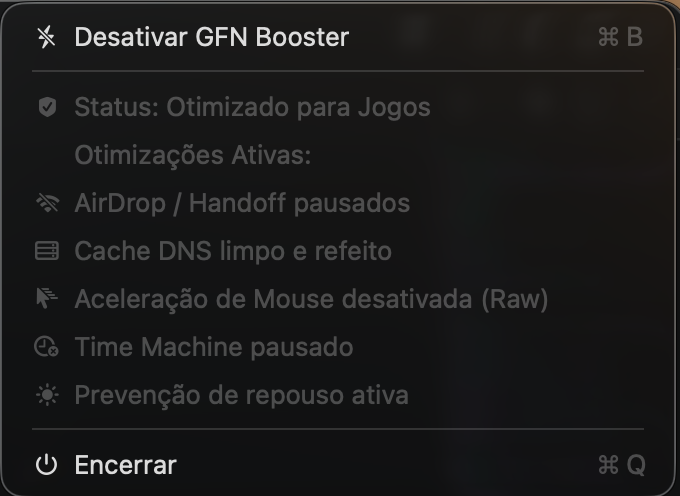
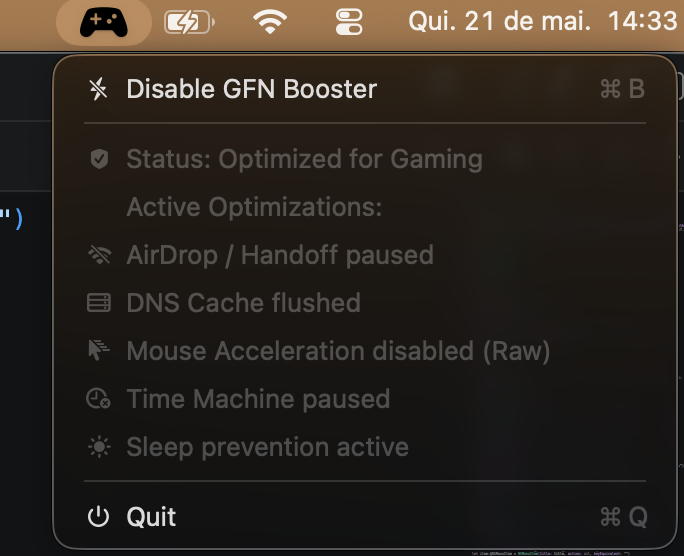
Refactor: Update UI to English and update preview screenshot

diff --git a/Sources/GFNOptimizer/App.swift b/Sources/GFNOptimizer/App.swift
@@ -4,25 +4,25 @@ import AppKit
 class AppDelegate: NSObject, NSApplicationDelegate {
     var statusItem: NSStatusItem!
     
-    // Ícones da barra de menus usando SF Symbols
+    // Menu bar icons using SF Symbols
     let config = NSImage.SymbolConfiguration(scale: .large)
     lazy var offImage = NSImage(systemSymbolName: "gamecontroller", accessibilityDescription: nil)?.withSymbolConfiguration(config)
     lazy var onImage = NSImage(systemSymbolName: "gamecontroller.fill", accessibilityDescription: nil)?.withSymbolConfiguration(config)
     
-    // Elementos dinâmicos do menu
+    // Dynamic menu elements
     var mainActionItem: NSMenuItem!
     var statusTextItem: NSMenuItem!
     
-    // Itens informativos das otimizações
+    // Informational items for optimizations
     var optimTitle: NSMenuItem!
     var awdlItem: NSMenuItem!
     var dnsItem: NSMenuItem!
     var mouseItem: NSMenuItem!
     var tmItem: NSMenuItem!
-    var sleepItem: NSMenuItem! // Nova otimização visual
+    var sleepItem: NSMenuItem!
     
     var isBoosterActive = false
-    var caffeinateProcess: Process? // Monitora o processo anti-sono do Mac
+    var caffeinateProcess: Process?
 
     static func main() {
         let app = NSApplication.shared
@@ -43,42 +43,42 @@ class AppDelegate: NSObject, NSApplicationDelegate {
     func setupMenu() {
         let menu = NSMenu()
         
-        // 1. Botão Principal
-        mainActionItem = NSMenuItem(title: "Ativar GFN Booster", action: #selector(toggleBooster), keyEquivalent: "b")
+        // 1. Main Button
+        mainActionItem = NSMenuItem(title: "Enable GFN Booster", action: #selector(toggleBooster), keyEquivalent: "b")
         mainActionItem.target = self
         menu.addItem(mainActionItem)
         
         menu.addItem(NSMenuItem.separator())
         
-        // 2. Status Geral
-        statusTextItem = NSMenuItem(title: "Status: Padrão", action: nil, keyEquivalent: "")
+        // 2. General Status
+        statusTextItem = NSMenuItem(title: "Status: Default", action: nil, keyEquivalent: "")
         statusTextItem.isEnabled = false
         menu.addItem(statusTextItem)
         
-        // 3. Área de Informações Expandida (Oculta por padrão)
-        optimTitle = NSMenuItem(title: "Otimizações Ativas:", action: nil, keyEquivalent: "")
+        // 3. Expanded Info Area (Hidden by default)
+        optimTitle = NSMenuItem(title: "Active Optimizations:", action: nil, keyEquivalent: "")
         optimTitle.isEnabled = false
         menu.addItem(optimTitle)
         
-        awdlItem = createFeatureItem(title: "AirDrop / Handoff pausados", icon: "wifi.slash")
+        awdlItem = createFeatureItem(title: "AirDrop / Handoff paused", icon: "wifi.slash")
         menu.addItem(awdlItem)
         
-        dnsItem = createFeatureItem(title: "Cache DNS limpo e refeito", icon: "server.rack")
+        dnsItem = createFeatureItem(title: "DNS Cache flushed", icon: "server.rack")
         menu.addItem(dnsItem)
         
-        mouseItem = createFeatureItem(title: "Aceleração de Mouse desativada (Raw)", icon: "cursorarrow.motionlines")
+        mouseItem = createFeatureItem(title: "Mouse Acceleration disabled (Raw)", icon: "cursorarrow.motionlines")
         menu.addItem(mouseItem)
         
-        tmItem = createFeatureItem(title: "Time Machine pausado", icon: "clock.badge.xmark")
+        tmItem = createFeatureItem(title: "Time Machine paused", icon: "clock.badge.xmark")
         menu.addItem(tmItem)
         
-        sleepItem = createFeatureItem(title: "Prevenção de repouso ativa", icon: "sun.max.fill")
+        sleepItem = createFeatureItem(title: "Sleep prevention active", icon: "sun.max.fill")
         menu.addItem(sleepItem)
         
         menu.addItem(NSMenuItem.separator())
         
-        // 4. Encerrar
-        let quitItem = NSMenuItem(title: "Encerrar", action: #selector(quitApp), keyEquivalent: "q")
+        // 4. Quit
+        let quitItem = NSMenuItem(title: "Quit", action: #selector(quitApp), keyEquivalent: "q")
         quitItem.target = self
         quitItem.image = NSImage(systemSymbolName: "power", accessibilityDescription: nil)
         menu.addItem(quitItem)
@@ -115,11 +115,7 @@ class AppDelegate: NSObject, NSApplicationDelegate {
             
             self.runPrivileged(command: sudoCommands)
             self.runUnprivileged(command: "defaults write .GlobalPreferences com.apple.mouse.scaling -1")
-            
-            // Inicia o Caffeinate para impedir o Mac de dormir durante o jogo
             self.startCaffeinate()
-            
-            // Abre o GeForce NOW automaticamente
             self.runUnprivileged(command: "open -a \"GeForce NOW\"")
             
             DispatchQueue.main.async {
@@ -141,8 +137,6 @@ class AppDelegate: NSObject, NSApplicationDelegate {
             
             self.runPrivileged(command: sudoCommands)
             self.runUnprivileged(command: "defaults write .GlobalPreferences com.apple.mouse.scaling 1.5")
-            
-            // Para o processo de prevenção de repouso
             self.stopCaffeinate()
             
             DispatchQueue.main.async {
@@ -154,12 +148,10 @@ class AppDelegate: NSObject, NSApplicationDelegate {
     }
 
     func startCaffeinate() {
-        // Garante que não tem nenhum rodando antes
         stopCaffeinate()
-        
         let process = Process()
         process.launchPath = "/usr/bin/caffeinate"
-        process.arguments = ["-d", "-i"] // -d impede a tela de apagar, -i impede o sistema de hibernar
+        process.arguments = ["-d", "-i"]
         process.launch()
         self.caffeinateProcess = process
     }
@@ -191,7 +183,7 @@ class AppDelegate: NSObject, NSApplicationDelegate {
         guard let button = statusItem.button else { return }
         if isLoading {
             button.image = NSImage(systemSymbolName: "hourglass", accessibilityDescription: nil)
-            mainActionItem.title = "Processando..."
+            mainActionItem.title = "Processing..."
             mainActionItem.isEnabled = false
         } else {
             mainActionItem.isEnabled = true
@@ -205,10 +197,10 @@ class AppDelegate: NSObject, NSApplicationDelegate {
             button.image = onImage
             button.contentTintColor = NSColor.systemGreen
             
-            mainActionItem.title = "Desativar GFN Booster"
+            mainActionItem.title = "Disable GFN Booster"
             mainActionItem.image = NSImage(systemSymbolName: "bolt.slash.fill", accessibilityDescription: nil)
             
-            statusTextItem.title = "Status: Otimizado para Jogos"
+            statusTextItem.title = "Status: Optimized for Gaming"
             statusTextItem.image = NSImage(systemSymbolName: "checkmark.shield.fill", accessibilityDescription: nil)
             
             optimTitle.isHidden = false
@@ -222,10 +214,10 @@ class AppDelegate: NSObject, NSApplicationDelegate {
             button.image = offImage
             button.contentTintColor = nil
             
-            mainActionItem.title = "Ativar GFN Booster"
+            mainActionItem.title = "Enable GFN Booster"
             mainActionItem.image = NSImage(systemSymbolName: "bolt.fill", accessibilityDescription: nil)
             
-            statusTextItem.title = "Status: Padrão da Apple"
+            statusTextItem.title = "Status: Apple Default"
             statusTextItem.image = NSImage(systemSymbolName: "shield", accessibilityDescription: nil)
             
             optimTitle.isHidden = true